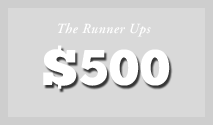
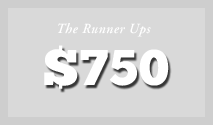
updated prizes

Changed region(s): [[0.1972, 0.384, 0.8169, 0.744], [0.2535, 0.36, 0.3099, 0.432], [0.1972, 0.408, 0.2254, 0.432]]

diff --git a/public/index.html b/public/index.html
@@ -55,13 +55,13 @@
           <div class="prize tba right">
             <h5>Prizes To Be Announced</h5>
           </div>
-          <!-- <div class="prize grand left">
-            <h5></h5>
+          <div class="prize grand left">
+            <h5>Grand Prize - $1000</h5>
           </div>
 
            <div class="prize runner right">
-            <h5></h5>
-          </div> -->
+            <h5>Runner Up - $750</h5>
+          </div>
         </div>
 
         <h4 class="interested"><a href="rules.html">Interested? Check Out The Rules?</a></h4>
